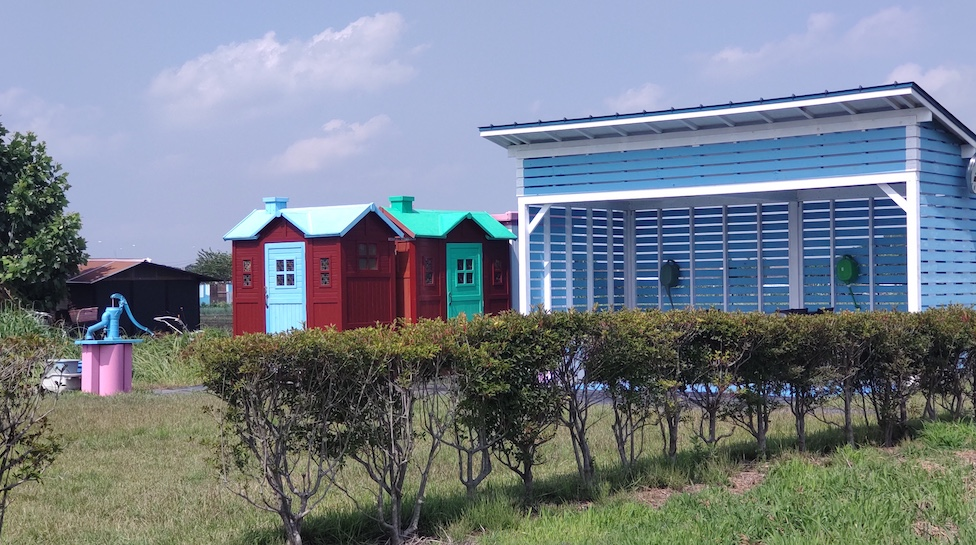
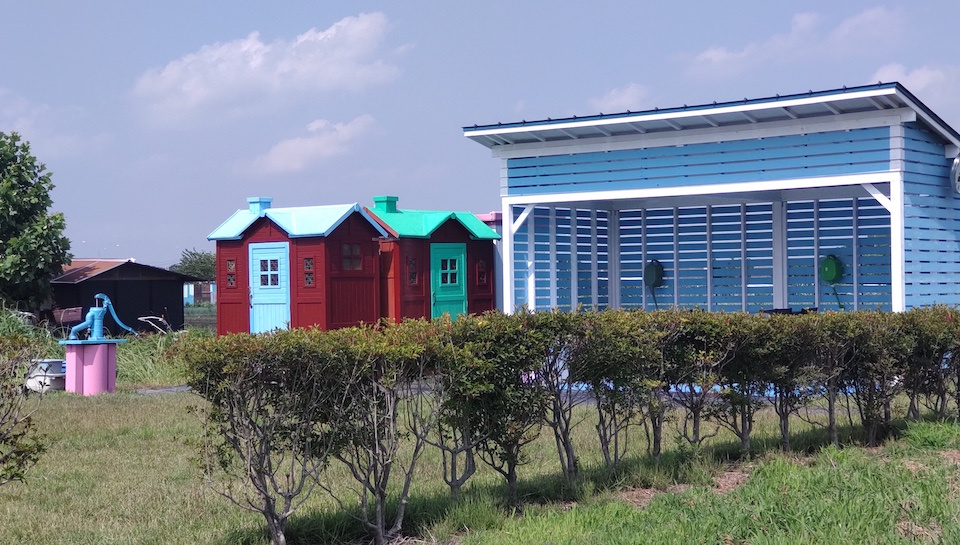
TOPページを作成

diff --git a/src/components/fruitshatake/topTitle.tsx b/src/components/fruitshatake/topTitle.tsx
@@ -1,9 +1,9 @@
 import Image from 'next/image';
 
-export default function TopTitle() {
+export default function TopTitle({ subTitle = true }: Readonly<{ subTitle?: boolean }>) {
   return (
     <div className='w-full flex flex-col gap-4 mb-8 items-center'>
-      <div className='flex justify-center space-x-8'>
+      <div className='flex justify-center space-x-8 h-26'>
         <Image
           src='/0034.png'
           className='hidden sm:block'
@@ -11,10 +11,22 @@ export default function TopTitle() {
           height={200 / 2}
           alt={''}
         />
-        <div className='text-center'>
-          <p className='underline'>プライベートパーク付きレンタル農園</p>
-          <p className='font-bold'>さいたま新都心</p>
-          <Image src='/fruitshatakeTitleLogo.png' width={1248 / 3} height={171 / 3} alt={'title'} />
+        <div className='text-center align-middle'>
+          {subTitle && (
+            <>
+              <p className='underline whitespace-nowrap text-[#444444]'>
+                プライベートパーク付きレンタル農園
+              </p>
+              <p className='font-bold no-underline text-[#444444]'>さいたま新都心</p>
+            </>
+          )}
+          <Image
+            src='/fruitshatakeTitleLogo.png'
+            className={subTitle ? 'my-0' : 'my-4'}
+            width={1248 / 3}
+            height={171 / 3}
+            alt={'title'}
+          />
         </div>
         <Image
           src='/0106.png'
@@ -25,7 +37,7 @@ export default function TopTitle() {
         />
       </div>
 
-      <Image src='/TOP.jpg' width={976 / 2} height={545 / 2} alt={'top'} className='rounded-xl' />
+      <Image src='/TOPF.jpg' width={960 / 2} height={545 / 2} alt={'top'} className='rounded-xl' />
     </div>
   );
 }

diff --git a/src/components/hanayasai/topTitle.tsx b/src/components/hanayasai/topTitle.tsx
@@ -1,9 +1,9 @@
 import Image from 'next/image';
 
-export default function TopTitle() {
+export default function TopTitle({ subTitle = true }: Readonly<{ subTitle?: boolean }>) {
   return (
     <div className='w-full flex flex-col gap-4 mb-8 items-center'>
-      <div className='flex justify-center space-x-8'>
+      <div className='flex justify-center space-x-8 h-26'>
         <Image
           src='/0971.png'
           className='hidden sm:block'
@@ -11,10 +11,18 @@ export default function TopTitle() {
           height={200 / 2}
           alt={''}
         />
-        <div className='text-center'>
-          <p className='underline'>プライベートパーク付きレンタル農園</p>
-          <p className='font-bold'>さいたま新都心</p>
-          <p className='font-bold text-3xl'>花野菜農園</p>
+        <div className='text-center align-middle'>
+          {subTitle && (
+            <>
+              <p className='underline whitespace-nowrap text-[#444444]'>
+                プライベートパーク付きレンタル農園
+              </p>
+              <p className='font-bold no-underline text-[#444444]'>さいたま新都心</p>
+            </>
+          )}
+          <p className={`font-bold text-3xl text-[#444444] ${subTitle ? 'my-0' : 'mt-10'}`}>
+            花野菜農園
+          </p>
         </div>
         <Image
           src='/toprImage.png'
@@ -25,7 +33,7 @@ export default function TopTitle() {
         />
       </div>
 
-      <Image src='/TOP.jpg' width={976 / 2} height={545 / 2} alt={'top'} className='rounded-xl' />
+      <Image src='/TOP.jpg' width={960 / 2} height={545 / 2} alt={'top'} className='rounded-xl' />
     </div>
   );
 }

diff --git a/src/app/(public)/layout.tsx b/src/app/(public)/layout.tsx
@@ -1,11 +1,11 @@
 import type { Metadata } from 'next';
-import './globals.css';
+import '@/app/globals.css';
 import Header from '@/components/header';
 import Footer from '@/components/footer';
 
 export const metadata: Metadata = {
-  title: '花野菜農園',
-  description: 'プライベートパーク付きレンタル農園',
+  title: '花野菜農園・フルーツとやさい畑',
+  description: 'さいたま新都心・浦和 / プライベートパーク付きレンタル農園',
 };
 
 export default function RootLayout({
@@ -20,7 +20,7 @@ export default function RootLayout({
         <main className='flex flex-col min-h-screen mx-4 md:mx-8 items-center sm:items-start'>
           {children}
         </main>
-        <Footer />
+        <Footer text='花野菜農園・フルーツとやさい畑' />
       </body>
     </html>
   );

diff --git a/src/app/(public)/fruitshatake/layout.tsx b/src/app/(public)/fruitshatake/layout.tsx
@@ -1,0 +1,27 @@
+import type { Metadata } from 'next';
+import '@/app/fruitshatake.css';
+import Header from '@/components/header';
+import Footer from '@/components/footer';
+
+export const metadata: Metadata = {
+  title: 'フルーツとやさい畑',
+  description: 'プライベートパーク付きレンタル農園',
+};
+
+export default function RootLayout({
+  children,
+}: Readonly<{
+  children: React.ReactNode;
+}>) {
+  return (
+    <html lang='ja'>
+      <body>
+        <Header />
+        <main className='flex flex-col min-h-screen mx-4 md:mx-8 items-center sm:items-start'>
+          {children}
+        </main>
+        <Footer text='フルーツとやさい畑' />
+      </body>
+    </html>
+  );
+}

diff --git a/src/app/(public)/hanayasai/layout.tsx b/src/app/(public)/hanayasai/layout.tsx
@@ -1,0 +1,27 @@
+import type { Metadata } from 'next';
+import '@/app/hanayasai.css';
+import Header from '@/components/header';
+import Footer from '@/components/footer';
+
+export const metadata: Metadata = {
+  title: '花野菜農園',
+  description: 'プライベートパーク付きレンタル農園',
+};
+
+export default function RootLayout({
+  children,
+}: Readonly<{
+  children: React.ReactNode;
+}>) {
+  return (
+    <html lang='ja'>
+      <body>
+        <Header />
+        <main className='flex flex-col min-h-screen mx-4 md:mx-8 items-center sm:items-start'>
+          {children}
+        </main>
+        <Footer text='花野菜農園' />
+      </body>
+    </html>
+  );
+}

diff --git a/src/components/footer.tsx b/src/components/footer.tsx
@@ -1,7 +1,11 @@
-export default function Footer() {
+export default function Footer({
+  text,
+}: Readonly<{
+  text: string;
+}>) {
   return (
-    <footer className='bg-[url(/footbk.png)] bg-cover bg-no-repeat h-24 flex items-center justify-center'>
-      <p className='text-white relative top-8'>花野菜農園倶楽部</p>
+    <footer className='fixed bottom-0 w-full bg-[url(/footbk.png)] bg-cover bg-no-repeat h-24 flex items-center justify-center'>
+      <p className='text-white relative top-8 p-2 bg-[#7bcd64]'>{text}</p>
     </footer>
   );
 }

diff --git a/src/app/(public)/page.tsx b/src/app/(public)/page.tsx
@@ -1,0 +1,18 @@
+import Hanayasai from '@/components/hanayasai/topTitle';
+import Fruhata from '@/components/fruitshatake/topTitle';
+import Link from 'next/link';
+
+export default function Home() {
+  return (
+    <div className='w-full'>
+      <div className='grid gap-8 grid-cols-1 xl:grid-cols-2 mb-8'>
+        <Link href='/hanayasai'>
+          <Hanayasai subTitle={false} />
+        </Link>
+        <Link href='/fruitshatake'>
+          <Fruhata subTitle={false} />
+        </Link>
+      </div>
+    </div>
+  );
+}

diff --git a/src/app/globals.css b/src/app/globals.css
@@ -4,15 +4,14 @@
 
 :root {
   --background: #eff7e1;
+  --background2: rgb(247, 231, 225);
   --foreground: #444444;
 }
 
-body {
-  color: var(--foreground);
-  background: var(--background);
-  font-family: 'Tsukimi Rounded-Bold', Helvetica, Arial, sans-serif;
+a {
+  @apply text-blue-500;
 }
 
-a {
-  @apply text-blue-500 underline;
+img {
+  max-height: 100%;
 }

diff --git a/src/app/fruitshatake.css b/src/app/fruitshatake.css
@@ -1,0 +1,9 @@
+@tailwind base;
+@tailwind components;
+@tailwind utilities;
+
+body {
+  color: var(--foreground);
+  background: var(--background2);
+  font-family: 'Tsukimi Rounded-Bold', Helvetica, Arial, sans-serif;
+}

diff --git a/src/app/hanayasai.css b/src/app/hanayasai.css
@@ -1,0 +1,9 @@
+@tailwind base;
+@tailwind components;
+@tailwind utilities;
+
+body {
+  color: var(--foreground);
+  background: var(--background);
+  font-family: 'Tsukimi Rounded-Bold', Helvetica, Arial, sans-serif;
+}
